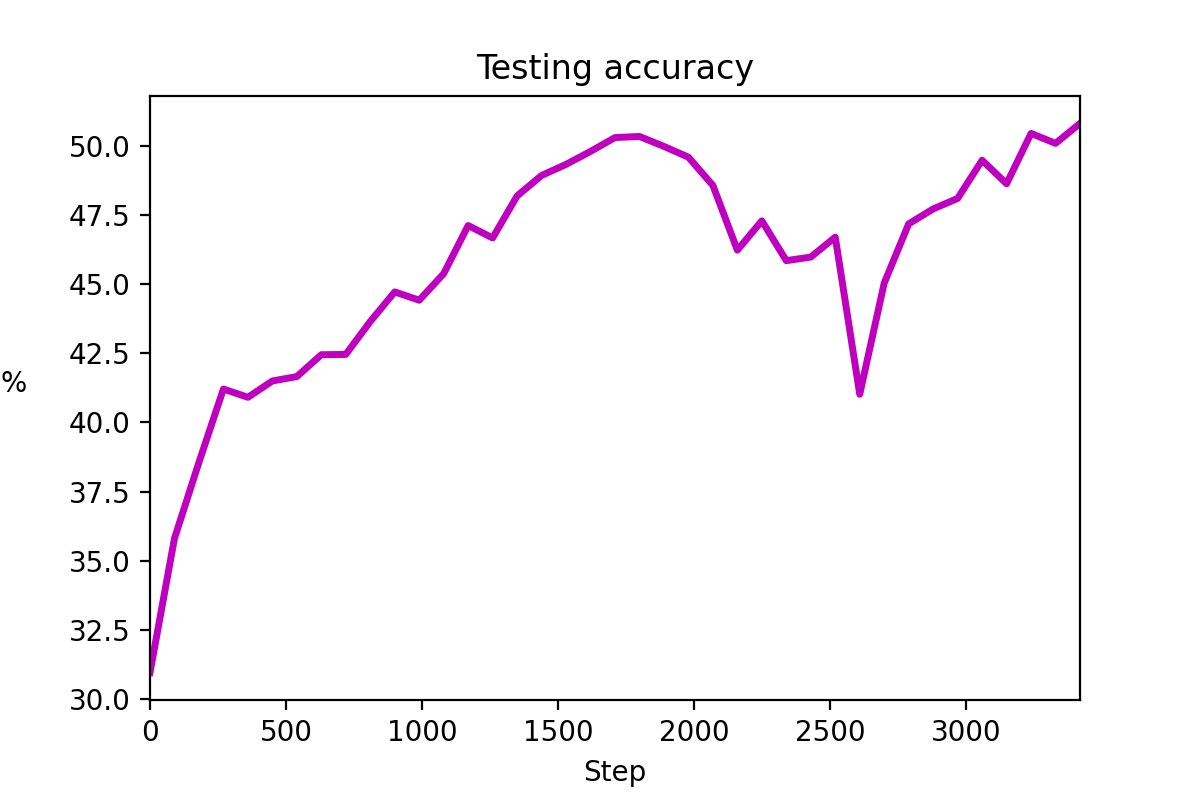
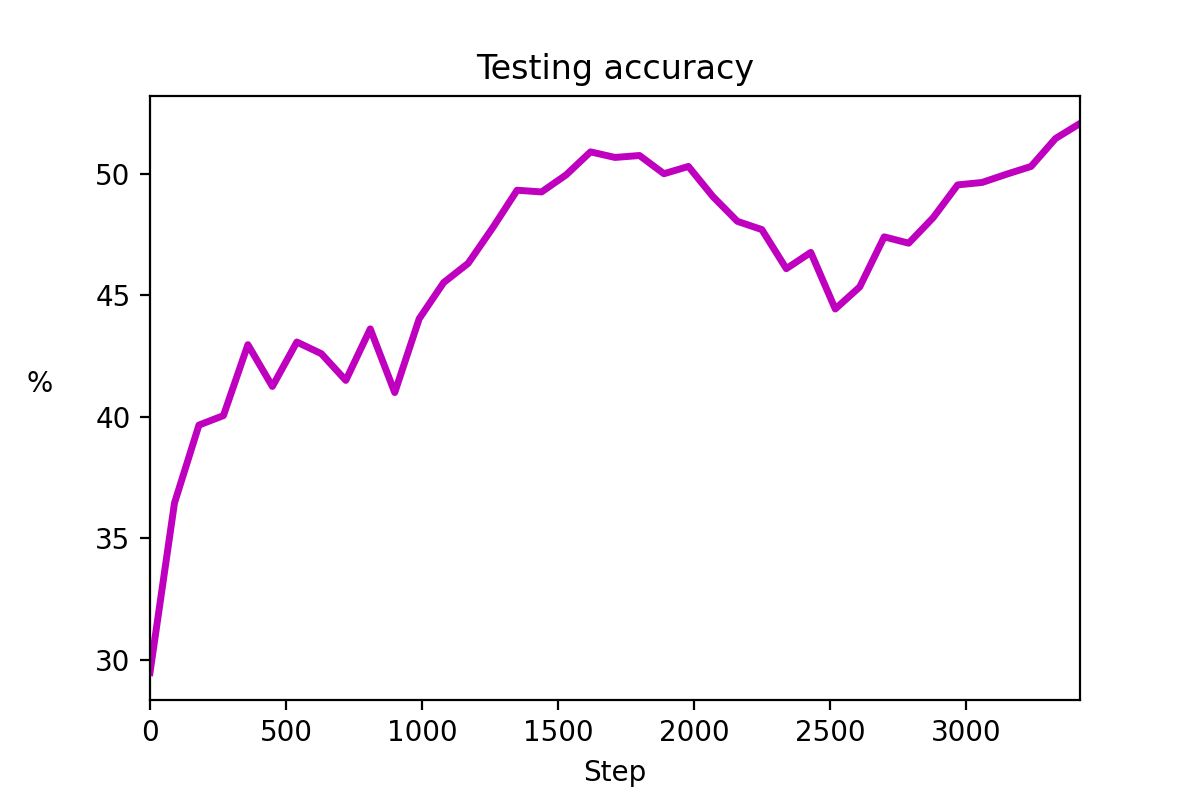
added wider NN w. dropout

diff --git a/a2_bonus/model.py b/a2_bonus/model.py
@@ -9,6 +9,7 @@ class neuralNetwork:
             K: int, 
             d: int,
             m: int,
+            p_dropout: float,
             seed: int
         ):
         
@@ -16,6 +17,9 @@ class neuralNetwork:
         self.K = K
         self.d = d
         self.m = m
+        
+        # init dropout 
+        self.p_dropout = p_dropout
         
         # set seed
         np.random.seed(seed)
@@ -44,34 +48,6 @@ class neuralNetwork:
                 )
         }
         
-        # # init weights, layer 1
-        # self.W1 = np.random.normal(
-        #     loc=0, 
-        #     scale=1/np.sqrt(self.d), 
-        #     size=(self.m, self.d)
-        # )
-        
-        # # init bias, layer 1
-        # self.b1 = np.random.normal(
-        #     loc=0, 
-        #     scale=0.0, 
-        #     size=(self.m, 1)
-        # )
-        
-        # # init weights, layer 2
-        # self.W2 = np.random.normal(
-        #     loc=0, 
-        #     scale=1/np.sqrt(self.m), 
-        #     size=(self.K, self.m)
-        # )
-        
-        # # init bias, layer 1
-        # self.b2 = np.random.normal(
-        #     loc=0, 
-        #     scale=0.0, 
-        #     size=(self.K, 1)
-        # )
-
     def evaluate(
             self, 
             X: np.array,
@@ -86,14 +62,46 @@ class neuralNetwork:
         -------
         P : KxN score matrix w. softmax activation
         """
+        # if train:
+        #     if self.p_dropout > 0:
+        #         # get bernoulli vectors for dropout
+        #         for weight in ['W1', 'W2']:
+        #             # get index for dropout
+        #             bernIdx = np.random.binomial(
+        #                 n=1, 
+        #                 p=self.p_dropout,
+        #                 size=self.weights[weight].shape
+        #             )
+        #             self.dropoutIdx[weight] = bernIdx
+                    
+        #             # save weights w/o dropout
+        #             weightTmp = self.weights[weight].copy()
+        #             weightTmp[~bernIdx] = 0
+        #             self.weightsTmp[weight] = weightTmp
+                    
+        #             # set dropped weights to zero
+                    # self.weights[weight][bernIdx] = 0            
+        
+        # get binary mask for dropout
+        if train:
+            mask = np.random.binomial(
+                n=1,
+                p=1-self.p_dropout,
+                size=(1,self.m)
+            )
+        else:
+            mask = np.ones(shape=(1,self.m))
+            
+        # calculate forward pass
         s1 = self.weights['W1'] @ X.T + self.weights['b1'] # m x N
-        h = np.maximum(0, s1)        # m x N
+        h = np.maximum(0, s1)  # m x N
+        h = (1 - train * self.p_dropout)**-1 * mask.T * h
         s = self.weights['W2'] @ h + self.weights['b2']    # K x N
         P = softMax(s)               # K x N
         
         if not train:
             return P
-        else:
+        else:            
             return P, h, s1
     
     def predict(
@@ -289,9 +297,6 @@ class neuralNetwork:
         # get grads from self.computeGrads and update weights
         # w. GD and learning parameter eta
         grads = self.computeGrads(X, Y, lambd)
-        weights = ['W1', 'W2', 'b1', 'b2']
-        
-        for grad, weight in zip(grads, weights):
+        for grad, weight in zip(grads, self.weights):
             self.weights[weight] -= eta * grad
-        
         

diff --git a/a2/model.py b/a2/model.py
@@ -44,34 +44,6 @@ class neuralNetwork:
                 )
         }
         
-        # # init weights, layer 1
-        # self.W1 = np.random.normal(
-        #     loc=0, 
-        #     scale=1/np.sqrt(self.d), 
-        #     size=(self.m, self.d)
-        # )
-        
-        # # init bias, layer 1
-        # self.b1 = np.random.normal(
-        #     loc=0, 
-        #     scale=0.0, 
-        #     size=(self.m, 1)
-        # )
-        
-        # # init weights, layer 2
-        # self.W2 = np.random.normal(
-        #     loc=0, 
-        #     scale=1/np.sqrt(self.m), 
-        #     size=(self.K, self.m)
-        # )
-        
-        # # init bias, layer 1
-        # self.b2 = np.random.normal(
-        #     loc=0, 
-        #     scale=0.0, 
-        #     size=(self.K, 1)
-        # )
-
     def evaluate(
             self, 
             X: np.array,

diff --git a/a2_bonus/main.py b/a2_bonus/main.py
@@ -22,6 +22,10 @@ eta_max = 1e-1
 ns      = 2 * 45000 // n_batch
 n_cycles = 2
 
+# specify network
+m = 200
+p_dropout = 0.4
+
 # set lambda values
 l_min = -5
 l_max = -1
@@ -35,6 +39,8 @@ saveDict = {
         'eta_max':eta_max,
         'ns':ns,
         'n_cycles':n_cycles,
+        'm':m,
+        'p_dropout':p_dropout
 }}
 
 # iterate over possible lambda values
@@ -61,6 +67,8 @@ for v in range(20):
         eta_max=eta_max,
         ns=ns,
         n_cycles=n_cycles,
+        m=m,
+        p_dropout=p_dropout,
         lambd=lambd,
         version=version,
         plot=True
@@ -74,6 +82,6 @@ for v in range(20):
         'accHist':accHist
     }
     
-# dump results to JSON
-with open(fpath, 'w') as fp:
-    json.dump(saveDict, fp)
+    # dump results to JSON
+    with open(fpath, 'w') as fp:
+        json.dump(saveDict, fp)

diff --git a/a2_bonus/train_network.py b/a2_bonus/train_network.py
@@ -14,7 +14,9 @@ def trainNetwork(
         eta_max: float, 
         ns: int, 
         n_cycles: int, 
-        lambd: float, 
+        lambd: float,
+        m: int,
+        p_dropout: float,
         plot: bool,
         version: str
     ):
@@ -66,7 +68,8 @@ def trainNetwork(
     neuralNet = neuralNetwork(
         K = 10,
         d = 3072,
-        m = 50,
+        m = m,
+        p_dropout = p_dropout,
         seed=1
     )
     
